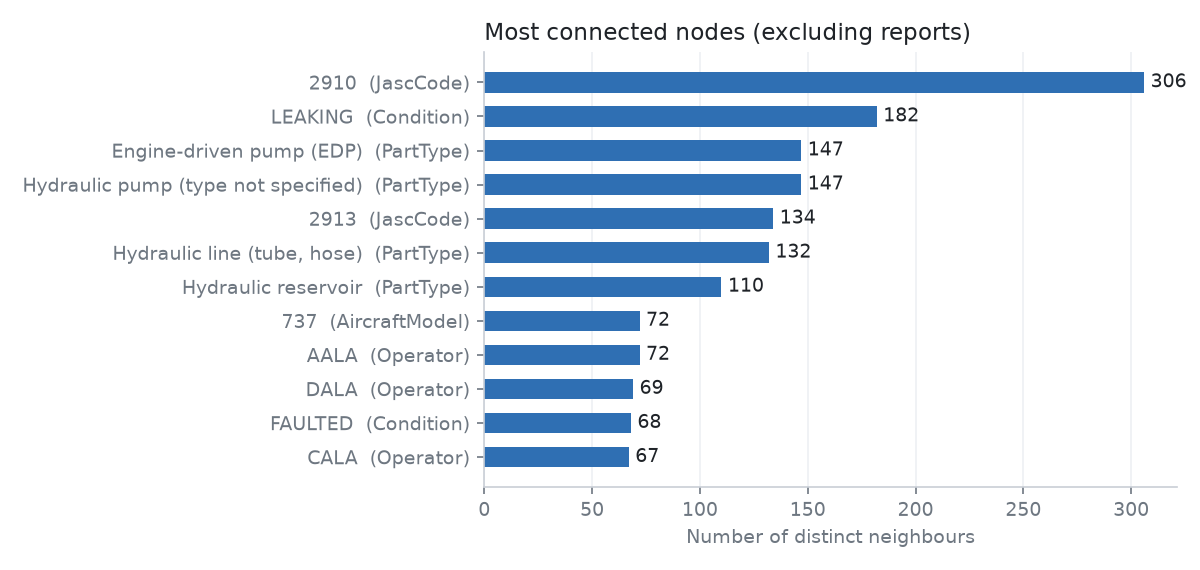
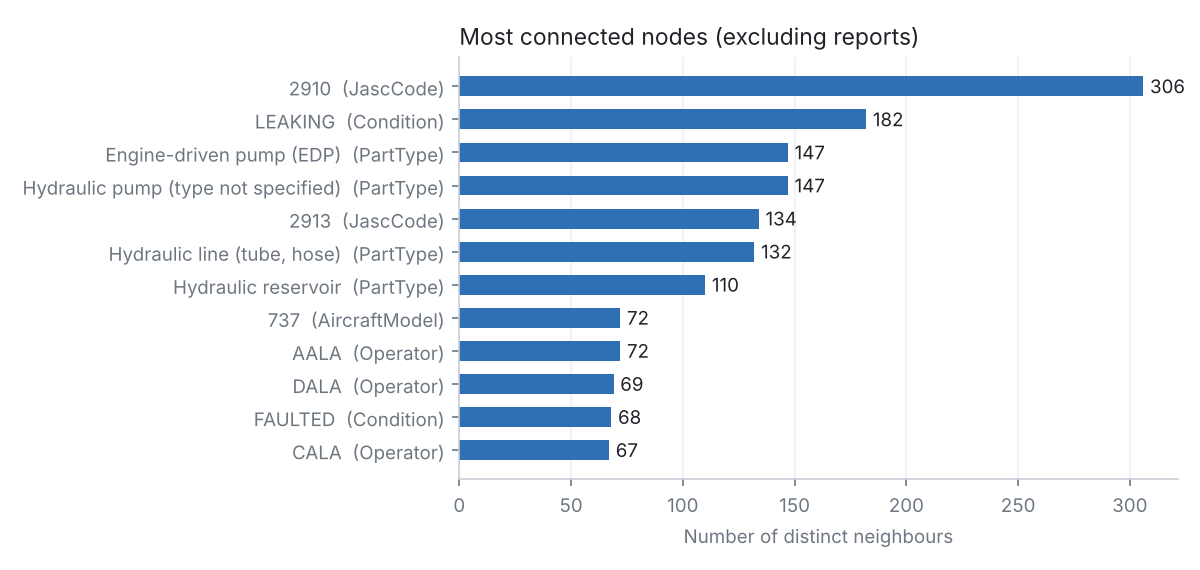
Step 3: Streamlit assistant (classic RAG vs naive vs guided GraphRAG)

Changed region(s): [[0.0308, 0.1193, 0.9867, 0.9544], [0.37, 0.0298, 0.8017, 0.0895], [0.37, 0.8649, 0.4008, 0.8947]]

diff --git a/assistant/retrieval.py b/assistant/retrieval.py
@@ -1,0 +1,184 @@
+"""Three ways to build the context an LLM answers from.
+
+1. text_rag      : classic RAG. Retrieve the most similar report texts (TF-IDF).
+2. naive_graph   : naive GraphRAG. Link entities in the question, take everything
+                   within N hops in the graph, serialise it as triples.
+3. guided_graph  : schema-guided GraphRAG. Link entities, then follow the ontology
+                   (part <- report -> condition / AMM task / aircraft) and return
+                   aggregates plus a few source reports.
+
+Each function returns a Context: the text given to the LLM, the source report ids,
+and what was linked. No LLM is needed to compare the three contexts.
+"""
+from __future__ import annotations
+
+import re
+from collections import Counter
+from dataclasses import dataclass, field
+
+import networkx as nx
+from sklearn.feature_extraction.text import TfidfVectorizer
+from sklearn.metrics.pairwise import cosine_similarity
+
+from domains.maintenance_aviation.mapping import MaintenanceMapper
+from kgcore.graph import build_graph, neighborhood
+from kgcore.loader import load_domain, load_records
+
+MAX_CHARS = 6000          # context budget given to the LLM (~1,500 tokens)
+
+CONDITION_WORDS = {       # question word -> PartCondition value
+    "LEAK": "LEAKING", "CRACK": "CRACKED", "CORRO": "CORRODED", "FAIL": "FAILED",
+    "FAULT": "FAULTED", "INOP": "INOPERATIVE", "DAMAG": "DAMAGED", "OVERHEAT": "OVERHEATED",
+}
+
+
+@dataclass
+class Context:
+    method: str
+    text: str
+    sources: list[str] = field(default_factory=list)
+    linked: list[str] = field(default_factory=list)
+    nodes: int = 0
+    truncated: bool = False
+
+    @property
+    def chars(self) -> int:
+        return len(self.text)
+
+
+class KnowledgeBase:
+    def __init__(self, use_hierarchy: bool = True):
+        self.use_hierarchy = use_hierarchy
+        self.cfg = load_domain("maintenance_aviation")
+        self.df = load_records(self.cfg)
+        self.mapper = MaintenanceMapper(self.cfg)
+        self.facts = [f for _, row in self.df.iterrows() for f in self.mapper.facts(row)]
+        self.g = build_graph(self.facts)
+        self.und = nx.Graph(self.g)
+        self.ids = list(self.df["OperatorControlNumber"])
+        self.texts = dict(zip(self.ids, self.df["Discrepancy"].fillna("").astype(str)))
+        self.tfidf = TfidfVectorizer(stop_words="english", ngram_range=(1, 2), min_df=1)
+        self.matrix = self.tfidf.fit_transform([self.texts[i] for i in self.ids])
+        self.families = {d["key"] for _, d in self.g.nodes(data=True) if d["type"] == "AircraftModel"}
+
+    # ------------------------------------------------------------ entity linking
+    def link(self, question: str) -> dict:
+        q = question.upper()
+        parts = list(dict.fromkeys(m.canonical for m in self.mapper.parts.find(q)))
+        fams = []
+        for group, members in self.cfg.get("model_groups", {}).items():
+            if group in q and self.use_hierarchy:
+                fams += [str(m) for m in members if str(m) in self.families]
+                q = q.replace(group, " ")
+        fams += [f for f in self.families if re.search(rf"\b{re.escape(f.upper())}\b", q)]
+        fams = list(dict.fromkeys(fams))
+        conds = [v for k, v in CONDITION_WORDS.items() if k in q]
+        return {"parts": parts, "families": fams, "conditions": conds}
+
+    def _snippet(self, rid: str, n: int = 260) -> str:
+        t = re.sub(r"\s+", " ", self.texts[rid]).strip()
+        return t[:n] + ("…" if len(t) > n else "")
+
+    # ------------------------------------------------------------ 1. classic RAG
+    def text_rag(self, question: str, k: int = 8) -> Context:
+        sims = cosine_similarity(self.tfidf.transform([question]), self.matrix)[0]
+        top = [self.ids[i] for i in sims.argsort()[::-1][:k] if sims[i] > 0]
+        lines = [f"[{rid}] {self._snippet(rid, 600)}" for rid in top]
+        return Context("Classic RAG (text similarity)", "\n".join(lines), top, [], len(top))
+
+    # ------------------------------------------------------------ 2. naive GraphRAG
+    def naive_graph(self, question: str, hops: int = 2) -> Context:
+        linked = self.link(question)
+        starts = [f"PartType:{p}" for p in linked["parts"]] + \
+                 [f"AircraftModel:{f}" for f in linked["families"]]
+        starts = [s for s in starts if s in self.g]
+        if not starts:
+            return Context("Naive GraphRAG (N hops)", "No entity from the question found in the graph.", [], [])
+        nodes = set()
+        for s in starts:
+            nodes |= neighborhood(self.g, s, hops)
+        sub = self.g.subgraph(nodes)
+        lines = []
+        for u, v, d in sub.edges(data=True):
+            lines.append(f"{self.g.nodes[u]['label']} {d['relation']} {self.g.nodes[v]['label']}")
+        lines = sorted(set(lines))
+        text = "\n".join(lines)
+        truncated = len(text) > MAX_CHARS
+        sources = sorted(n.split(":", 1)[1] for n in nodes if n.startswith("Report:"))
+        return Context("Naive GraphRAG (N hops)", text[:MAX_CHARS], sources,
+                       [self.g.nodes[s]["label"] for s in starts], len(nodes), truncated)
+
+    # ------------------------------------------------------------ 3. guided GraphRAG
+    def guided_graph(self, question: str, k: int = 8) -> Context:
+        linked = self.link(question)
+        if not linked["parts"]:
+            return Context("Schema-guided GraphRAG", "No part type from the question found in the ontology.", [], [])
+        part = linked["parts"][0]
+        pnode = f"PartType:{part}"
+        reports = {u for u, _, d in self.g.in_edges(pnode, data=True) if d["relation"] == "INVOLVES_PART"}
+
+        def out(rnode, rel):
+            return [v for _, v, d in self.g.out_edges(rnode, data=True) if d["relation"] == rel]
+
+        def family(rnode):
+            fams = []
+            for a in out(rnode, "CONCERNS"):
+                fams += [self.g.nodes[m]["key"] for m in out(a, "IS_MODEL")]
+            return fams
+
+        if linked["families"]:
+            reports = {r for r in reports if set(family(r)) & set(linked["families"])}
+        relaxed = ""
+        if linked["conditions"]:
+            strict = {r for r in reports
+                      if {self.g.nodes[c]["key"] for c in out(r, "HAS_CONDITION")} & set(linked["conditions"])}
+            if strict:
+                reports = strict
+            else:
+                # The condition is often only in the free text, not in PartCondition.
+                words = [w[:5] for w in linked["conditions"]]
+                reports_text = {r for r in reports
+                                if any(w in self.texts[r.split(":", 1)[1]].upper() for w in words)}
+                relaxed = (f"No report has PartCondition = {', '.join(linked['conditions'])} for this part. "
+                           f"Filter relaxed to the free text: {len(reports_text)} reports mention it.")
+                reports = reports_text
+                linked["conditions"] = []
+        conds, amm, fams, ops = Counter(), Counter(), Counter(), Counter()
+        for r in sorted(reports):  # sorted: same output on every run
+            conds.update(self.g.nodes[c]["label"] for c in out(r, "HAS_CONDITION"))
+            amm.update(self.g.nodes[a]["label"] for a in out(r, "REFERENCES"))
+            fams.update(family(r))
+            ops.update(self.g.nodes[o]["label"] for o in out(r, "REPORTED_BY"))
+        # show reports with the reported condition first, then by date order in the file
+        ordered = sorted(reports, key=lambda r: self.ids.index(r.split(":", 1)[1]))
+        sample = [r.split(":", 1)[1] for r in ordered[:k]]
+        label = self.mapper.parts.labels[part]
+        filt = []
+        if linked["families"]:
+            filt.append("aircraft family " + ", ".join(linked["families"]))
+        if linked["conditions"]:
+            filt.append("condition " + ", ".join(linked["conditions"]))
+        top = lambda c: ", ".join(f"{k} ({v})" for k, v in c.most_common(6)) or "none"  # noqa: E731
+        lines = [
+            f"Query: Report -INVOLVES_PART-> {label}" + (f", filtered on {'; '.join(filt)}" if filt else ""),
+            *([relaxed] if relaxed else []),
+            f"Matching reports: {len(reports)}",
+            f"Conditions reported: {top(conds)}",
+            f"Maintenance manual tasks cited: {top(amm)}",
+            f"Aircraft families: {top(fams)}",
+            f"Operators: {top(ops)}",
+            "Source reports:",
+        ] + [f"[{rid}] {self._snippet(rid)}" for rid in sample]
+        return Context("Schema-guided GraphRAG", "\n".join(lines)[:MAX_CHARS], sample,
+                       [label] + linked["families"] + linked["conditions"], len(reports) + 4)
+
+
+PROMPT = """You answer questions about aircraft hydraulic maintenance reports (FAA, 2025).
+Use ONLY the context below. If the context is not enough, say so.
+Cite report ids in square brackets when you use them. Answer in 5 sentences at most.
+
+Context:
+{context}
+
+Question: {question}
+Answer:"""

diff --git a/app.py b/app.py
@@ -1,0 +1,113 @@
+"""Maintenance assistant: compare classic RAG, naive GraphRAG and schema-guided GraphRAG.
+
+    pip install streamlit scikit-learn
+    streamlit run app.py
+
+Ollama must be running (llama3.2:3b) to generate answers. Without it, the app
+still shows the three contexts side by side.
+"""
+from __future__ import annotations
+
+import json
+import sys
+import time
+import urllib.request
+from pathlib import Path
+
+import streamlit as st
+
+ROOT = Path(__file__).resolve().parent
+sys.path.insert(0, str(ROOT))
+
+from assistant.retrieval import PROMPT, KnowledgeBase  # noqa: E402
+
+EXAMPLES = [
+    "What problems affect engine-driven pumps on the A320 family?",
+    "Which maintenance manual tasks are cited for electric motor pump leaks?",
+    "Which operators report the most PTU problems?",
+    "What happens when a hydraulic reservoir overheats?",
+]
+
+st.set_page_config(page_title="Maintenance KG assistant", layout="wide")
+
+
+@st.cache_resource(show_spinner="Building the knowledge graph…")
+def get_kb(use_hierarchy: bool) -> KnowledgeBase:
+    return KnowledgeBase(use_hierarchy=use_hierarchy)
+
+
+def ask_ollama(model: str, prompt: str, host: str = "http://localhost:11434") -> tuple[str, float]:
+    body = json.dumps({"model": model, "messages": [{"role": "user", "content": prompt}],
+                       "stream": False, "keep_alive": "60m",
+                       "options": {"temperature": 0, "num_ctx": 4096}}).encode()
+    req = urllib.request.Request(f"{host}/api/chat", data=body,
+                                 headers={"Content-Type": "application/json"})
+    t0 = time.time()
+    with urllib.request.urlopen(req, timeout=900) as resp:
+        answer = json.loads(resp.read())["message"]["content"]
+    return answer, time.time() - t0
+
+
+st.title("Where maintenance knowledge graphs break")
+st.caption("FAA Service Difficulty Reports 2025, ATA 29 hydraulic power, 514 reports. "
+           "The same question, answered from three different contexts.")
+
+with st.sidebar:
+    st.header("Settings")
+    model = st.text_input("Ollama model", "llama3.2:3b")
+    generate = st.checkbox("Generate answers with the LLM", value=False,
+                           help="About 30–60 s per answer on a laptop CPU. "
+                                "Leave unchecked to compare the contexts only.")
+    use_hierarchy = st.checkbox("Use the model hierarchy (A320 family = A319 + A320 + A321)", value=True)
+    hops = st.slider("Naive GraphRAG: number of hops", 1, 3, 2)
+    st.divider()
+    st.markdown("Code and data: see the README. Answers come from a 3-billion-parameter "
+                "model running locally; they can be wrong.")
+
+kb = get_kb(use_hierarchy)
+
+example = st.selectbox("Example questions", EXAMPLES)
+question = st.text_input("Your question (in English)", value=example)
+
+if question:
+    linked = kb.link(question)
+    st.markdown("**Entities found in the question:** "
+                + (", ".join(f"`{kb.mapper.parts.labels[p]}`" for p in linked["parts"]) or "no part type")
+                + (" · families " + ", ".join(f"`{f}`" for f in linked["families"]) if linked["families"] else "")
+                + (" · conditions " + ", ".join(f"`{c}`" for c in linked["conditions"]) if linked["conditions"] else ""))
+
+    contexts = [kb.text_rag(question), kb.naive_graph(question, hops), kb.guided_graph(question)]
+    cols = st.columns(3)
+    for col, ctx in zip(cols, contexts):
+        with col:
+            st.subheader(ctx.method)
+            m1, m2 = st.columns(2)
+            m1.metric("Context size", f"{ctx.chars:,} chars")
+            m2.metric("Source reports", len(ctx.sources))
+            if ctx.truncated:
+                st.warning("Context cut to fit the model: the rest of the graph was dropped.")
+            if generate:
+                with st.spinner("The LLM is answering…"):
+                    try:
+                        answer, secs = ask_ollama(model, PROMPT.format(context=ctx.text, question=question))
+                        st.markdown(answer)
+                        st.caption(f"{secs:.0f} s with {model}")
+                    except Exception as e:  # noqa: BLE001
+                        st.error(f"Ollama did not answer: {e}. Is it running?")
+            with st.expander("Context given to the LLM"):
+                st.code(ctx.text or "(empty)", language="text")
+            if ctx.sources:
+                with st.expander(f"Source reports ({len(ctx.sources)})"):
+                    for rid in ctx.sources[:12]:
+                        st.markdown(f"**{rid}** — {kb._snippet(rid, 400)}")
+                    if len(ctx.sources) > 12:
+                        st.caption(f"… and {len(ctx.sources) - 12} more")
+
+    st.divider()
+    st.markdown(
+        "**How to read this.** *Classic RAG* finds texts that look like the question, but it "
+        "cannot count or aggregate. *Naive GraphRAG* takes everything around the entities: the "
+        "context overflows and gets cut. *Schema-guided GraphRAG* follows the ontology "
+        "(part ← report → condition / manual task / aircraft) and gives the LLM aggregates "
+        "plus a few sources. It is only as good as entity linking: switch off the model "
+        "hierarchy to see the A320 family answer lose half its reports.")

diff --git a/README.md b/README.md
@@ -16,9 +16,21 @@ The goal is not a demo that works. It is to **make visible and measurable** the 
 | Mentioned ≠ failed | 12 "PUMP" reports mention several pumps, some only switched off or replaced as a precaution. |
 | LLM extraction | On 19 reference cases: dictionary **10**, local LLM **12**, hybrid **15**. The LLM puts a part type outside the schema in **12%** of answers and altered 2 manual references. |
 | Hubs | A naive 3-hop GraphRAG traversal returns **61%** of the graph. A schema-guided query returns only what answers the question. |
+| Ontology gaps | "A320 family" means A318/A319/A320/A321. Without a model hierarchy, the guided query finds **24** EDP reports; with it, **51**. |
+| Schema vs text | "Reservoir + OVERHEATED" returns **0** reports through `PartCondition`, but **12** reports describe it in the text. The graph only knows what was extracted. |
 | Property graph vs RDF | Same facts, same answers. Provenance is an edge property in Cypher; in RDF every fact must be reified: **~10x more triples**. |
 
 Details: [`outputs/step1_report.md`](outputs/step1_report.md) · [`outputs/step2_report_llama3.2_3b.md`](outputs/step2_report_llama3.2_3b.md) · Design decisions: [`DECISIONS.md`](DECISIONS.md) · Cypher vs SPARQL: [`queries/README.md`](queries/README.md)
+
+## The assistant: three ways to answer the same question
+
+`streamlit run app.py` opens a local app. Type a question; it builds three contexts side by side and, optionally, asks the local LLM to answer from each:
+
+| Method | What the LLM receives | Typical result |
+| --- | --- | --- |
+| Classic RAG | the 8 report texts most similar to the question (TF-IDF) | relevant examples, but no counting or aggregation |
+| Naive GraphRAG | every triple within N hops of the entities in the question | overflows the context budget and gets cut |
+| Schema-guided GraphRAG | one ontology path (part ← report → condition / manual task / aircraft): counts plus 8 source reports | compact and countable, but only as good as entity linking |
 
 ## Architecture: same stack, another domain
 
@@ -47,6 +59,7 @@ python run_sparql.py           # same answers in SPARQL
 ollama pull llama3.2:3b
 python run_step2_llm.py --only-pump    # LLM extraction on the 117 "PUMP" reports (~30 min on CPU)
 python build_explorer.py       # regenerates outputs/explorer.html
+streamlit run app.py           # the assistant
 ```
 
 ## Transparency

diff --git a/DECISIONS.md b/DECISIONS.md
@@ -28,6 +28,14 @@ Each decision lists the options, the choice and the rationale. The code only app
 - **Choice: a large LLM (Claude) annotated 20 "PUMP" reports** (`data/ground_truth.xlsx`, each row labelled).
 - Rationale: fast, and it gives a consistent reference to compare the dictionary and the small local LLM. Limit: an LLM judging an LLM. In a real project, a sample would be validated by maintenance engineers.
 
+### D11 — A model hierarchy in the ontology
+- Observation: "A320 family" in a question matched only the A320 model: 24 EDP reports instead of 51 with A319 and A321.
+- **Choice: `model_groups` in the config** ("A320 FAMILY" = A318, A319, A320, A321), used by entity linking. It can be switched off in the assistant to show the difference.
+
+### D12 — When a schema filter returns nothing, relax it and say so
+- Observation: "reservoir + overheat" gives 0 reports through `PartCondition`, 12 through the free text.
+- **Choice:** the guided query falls back to the text and writes the fallback into the context, so the LLM and the user both see it.
+
 ## Open questions
 
 ### D4 — ACMP (Boeing, Bombardier) and EMDP / ELEC PUMP: one type or two?
@@ -55,4 +63,6 @@ Each decision lists the options, the choice and the rationale. The code only app
 - 2026-11-04 — First LLM test: 110 s per report. Once the model stays loaded in memory: 16 s per report.
 - 2026-11-04 — Two "PUMP" reports involve no pump (ELAC computer, brake line): the structured field can be wrong, not only vague.
 - 2026-11-04 — Two reports describe the same event (SWAA2025102728412, SWAA2025102729004): duplicates in the source data.
+- 2026-11-05 — "A320 family" query: 24 reports without the model hierarchy, 51 with it.
+- 2026-11-05 — "Reservoir overheat": 0 reports through PartCondition, 12 through the text.
 - 2026-11-04 — The LLM altered two maintenance manual references into plausible but wrong ones (29-11-51 for 29-11-11).

diff --git a/docs/COMPRENDRE.md b/docs/COMPRENDRE.md
@@ -63,3 +63,15 @@ python run_step2_llm.py --limit 30
 Charger le graphe dans Neo4j (optionnel) :
 - Neo4j Desktop → créer une base → copier `outputs/property_graph/nodes.csv` et `edges.csv` dans son dossier `import`.
 - Exécuter `outputs/property_graph/import_neo4j.cypher`, puis les requêtes de `queries/README.md`.
+
+## L'assistant (étape 3)
+
+```powershell
+pip install streamlit scikit-learn
+streamlit run app.py
+```
+- Une page s'ouvre dans ton navigateur (http://localhost:8501).
+- Choisis une question exemple ou tape la tienne, en anglais.
+- Trois colonnes : **RAG classique** (textes ressemblants), **GraphRAG naïf** (tout à N sauts, déborde), **GraphRAG guidé** (le chemin de l'ontologie, avec des comptages).
+- Case « Generate answers with the LLM » : le LLM répond à partir de chaque contexte (30 à 60 s par réponse).
+- Case « model hierarchy » : décoche-la pour voir la question « A320 family » perdre la moitié de ses rapports (51 → 24).
